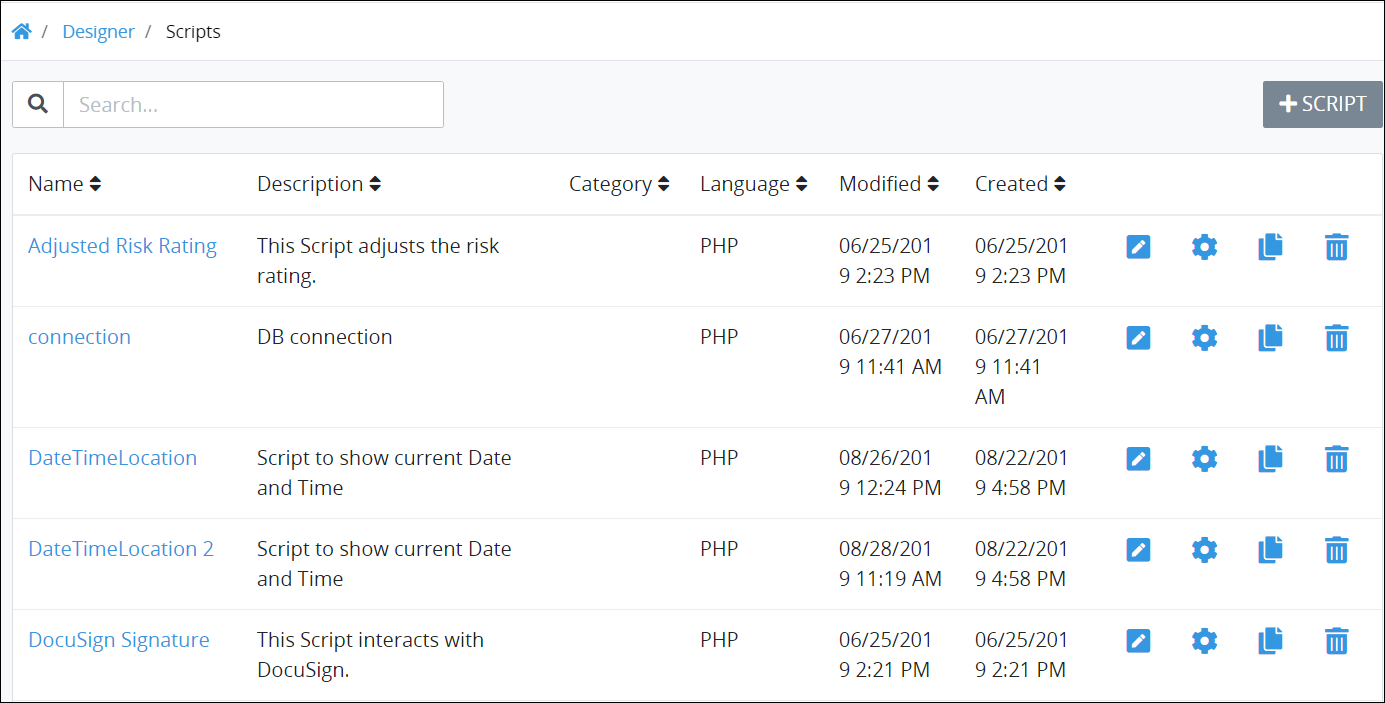
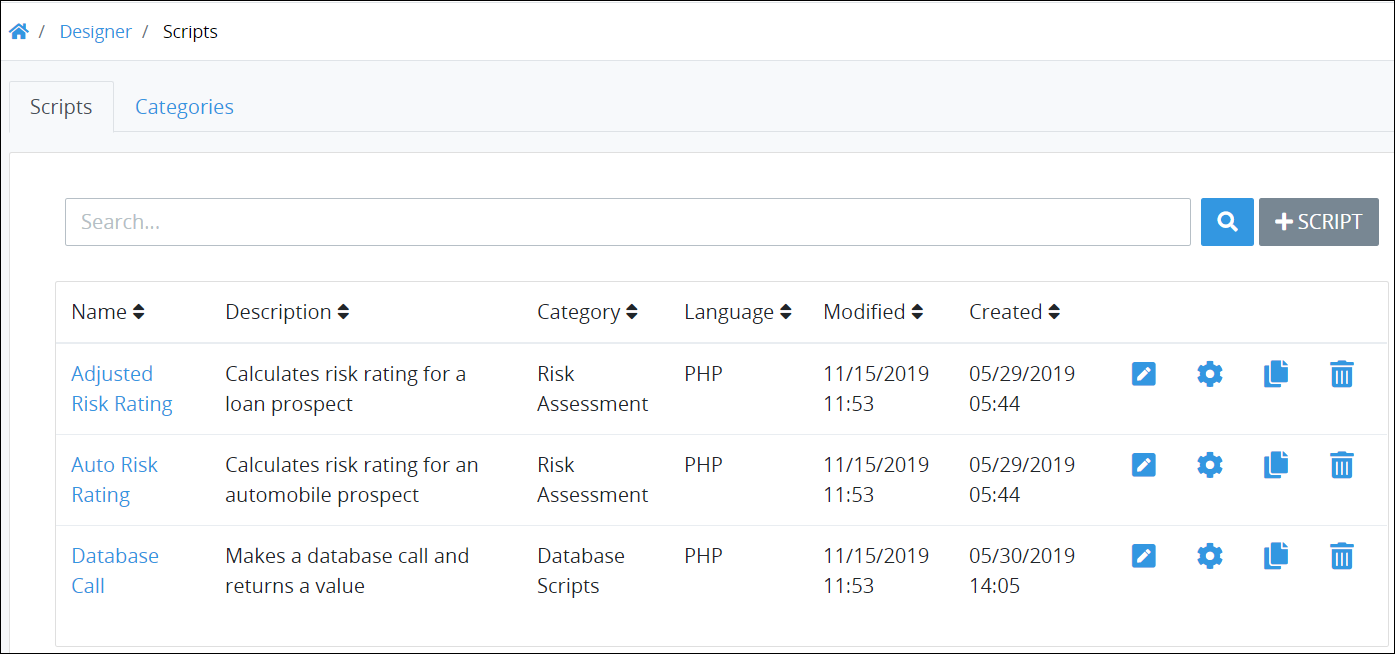
GitBook: [processmaker] 21 pages and 5 assets modified

diff --git a/designing-processes/viewing-processes/view-the-list-of-processes/manage-process-categories/view-process-categories.md b/designing-processes/viewing-processes/view-the-list-of-processes/manage-process-categories/view-process-categories.md
@@ -18,17 +18,17 @@ Follow these steps to view [Process Categories](what-is-a-process-category.md):
 2. Click the **Designer** option from the top menu. The **Processes** tab displays.
 3. Click the **Categories** tab. The Process Categories display.
 
-![&quot;Process Categories&quot; page displays categories by which to organize Processes](../../../../.gitbook/assets/process-categories-page-processes.png)
+![&quot;Categories&quot; tab in the &quot;Processes&quot; page displays Categories by which to organize Processes](../../../../.gitbook/assets/process-categories-page-processes%20%281%29.png)
 
 The **Categories** tab displays the following information in tabular format about Process Categories:
 
 * **Name:** The **Name** column displays the name of the Process Category.
 * **Status:** The **Status** column displays the status of the Process Category. Below is a description of each status:
   * **Active:** An active Process Category can have Processes assigned to it.
-  * **Inactive:** An inactive Process Category can no longer be selected when [assigning a Process to a Category](../create-a-process.md#create-a-new-process). Furthermore, Processes assigned to an inactive Category [no longer display to Requesters](../../../../using-processmaker/requests/make-a-request.md#start-a-request) even though such Processes may be active.
+  * **Inactive:** An inactive Process Category can no longer be selected when [assigning a Process to a Category](../create-a-process.md#create-a-new-process). Furthermore, Processes assigned to an inactive Category no longer display in the [**New Request** screen](../../../../using-processmaker/requests/make-a-request.md#start-a-request) even though such Processes may be active.
 * **Processes:** The **\# Processes** column displays how many Processes in your organization have been assigned to that Process Category.
-* **Modified:** The **Modified** column displays the date and time the Process Category was last modified. The time zone setting to display the time is according to the ProcessMaker Spark server unless your [user profile's](../../../../using-processmaker/profile-settings.md#change-your-profile-settings) **Time zone** setting is specified.
-* **Created:** The **Created** column displays the date and time the Process Category was created. The time zone setting to display the time is according to the ProcessMaker Spark server unless your [user profile's](../../../../using-processmaker/profile-settings.md#change-your-profile-settings) **Time zone** setting is specified.
+* **Modified:** The **Modified** column displays the date and time the Process Category was last modified. The time zone setting to display the time is according to the ProcessMaker server unless your [user profile's](../../../../using-processmaker/profile-settings.md#change-your-profile-settings) **Time zone** setting is specified.
+* **Created:** The **Created** column displays the date and time the Process Category was created. The time zone setting to display the time is according to the ProcessMaker server unless your [user profile's](../../../../using-processmaker/profile-settings.md#change-your-profile-settings) **Time zone** setting is specified.
 
 {% hint style="info" %}
 ### No Process Categories? <a id="no-processes"></a>

diff --git a/designing-processes/scripts/manage-scripts/manage-script-categories/view-script-categories.md b/designing-processes/scripts/manage-scripts/manage-script-categories/view-script-categories.md
@@ -4,3 +4,43 @@ description: View the Script Categories in your organization.
 
 # View Script Categories
 
+## View Script Categories
+
+{% hint style="info" %}
+Your ProcessMaker user account or group membership must have the "Categories: View Categories" permission to view the list of Process Categories unless your user account has the **Make this user a Super Admin** setting selected.
+
+See the Process [Categories](../../../../processmaker-administration/permission-descriptions-for-users-and-groups.md#categories) permissions or ask your ProcessMaker Administrator for assistance.
+{% endhint %}
+
+Follow these steps to view [Script Categories](what-is-a-script-category.md):
+
+1. [Log on](../../../../using-processmaker/log-in.md#log-in) to ProcessMaker.
+2. Click the **Designer** option from the top menu. The **Processes** page displays.
+3. Click the **Categories** tab. The Script Categories display.
+
+![&quot;Categories&quot; tab in the &quot;Scripts&quot; page displays Categories by which to organize ProcessMaker Scripts](../../../../.gitbook/assets/scripts-category-page-processes.png)
+
+The **Categories** tab displays the following information in tabular format about Script Categories:
+
+* **Name:** The **Name** column displays the name of the Script Category.
+* **Status:** The **Status** column displays the status of the Scripts Category. Below is a description of each status:
+  * **Active:** Active Script Categories can have ProcessMaker Scripts assigned to them.
+  * **Inactive:** Inactive Script Categories cannot have ProcessMaker Scripts assigned to them.
+* **Scripts:** The **\# Scripts** column displays how many ProcessMaker Scripts in your organization have been assigned to that Script Category.
+* **Modified:** The **Modified** column displays the date and time the Script Category was last modified. The time zone setting to display the time is according to the ProcessMaker server unless your [user profile's](../../../../using-processmaker/profile-settings.md#change-your-profile-settings) **Time zone** setting is specified.
+* **Created:** The **Created** column displays the date and time the Script Category was created. The time zone setting to display the time is according to the ProcessMaker server unless your [user profile's](../../../../using-processmaker/profile-settings.md#change-your-profile-settings) **Time zone** setting is specified.
+
+{% hint style="info" %}
+### No Script Categories? <a id="no-processes"></a>
+
+If no Script Categories exist, the following message displays: **No Results**.
+
+### Display Information the Way You Want It <a id="display-information-the-way-you-want-it"></a>
+
+[Control how tabular information displays](https://processmaker.gitbook.io/processmaker-4-community/-LPblkrcFWowWJ6HZdhC/~/drafts/-LWD5skTaOptuIWIWk76/primary/using-processmaker/control-how-requests-display-in-a-tab), including how to sort columns or how many items display per page.
+{% endhint %}
+
+## Related Topics
+
+
+

diff --git a/designing-processes/viewing-processes/view-the-list-of-processes/manage-process-categories/what-is-a-process-category.md b/designing-processes/viewing-processes/view-the-list-of-processes/manage-process-categories/what-is-a-process-category.md
@@ -8,7 +8,9 @@ description: >-
 
 ## Overview
 
-Use Process Categories to organize your Processes. Organizing your Processes into Categories makes it easier to search for a Process based on its assigned Category. Assign multiple Process Categories to a Process if necessary. For example, assign a Process named "Loan Request" to the "Banking" and "Loans" Process Categories.
+Use Process Categories to organize your [Processes](../../what-is-a-process.md). Organizing your Processes into Categories makes it easier to search for a Process based on its assigned Category. Assign multiple Process Categories to a Process if necessary. For example, assign a Process named "Loan Request" to the "Banking" and "Loans" Process Categories.
+
+![&quot;Categories&quot; tab on the &quot;Processes&quot; page displays all Process Categories in your organization](../../../../.gitbook/assets/process-categories-page-processes.png)
 
 Assigning your Process to Process Categories also makes it easier for [Request](../../../../using-processmaker/requests/what-is-a-request.md) participants to start a Request of your Process. Processes are organized by Process Categories in the **New Request** screen, which is where [new Requests are started](../../../../using-processmaker/requests/make-a-request.md#start-a-request). In the **New Request** screen, a Process displays in each Process Category to which it is assigned.
 
@@ -17,7 +19,7 @@ Assigning your Process to Process Categories also makes it easier for [Request](
 Process Categories can be in active or inactive status. Following is a description of each status:
 
 * **Active:** Active Process Categories can have Processes assigned to them.
-* **Inactive:** Inactive Process Categories cannot have Processes assigned to them. Furthermore, Processes assigned to an inactive Category no longer display in the **New Request** screen even though such Processes may be active.
+* **Inactive:** Inactive Process Categories cannot have Processes assigned to them. Furthermore, Processes assigned to an inactive Category no longer display in the [**New Request** screen](../../../../using-processmaker/requests/make-a-request.md#start-a-request) even though such Processes may be active.
 
 {% hint style="info" %}
 ProcessMaker has three Category types for different types of assets. Each Category type is distinct from the others and can only be used for its type of ProcessMaker asset. Following is a description of each Category type:

diff --git a/designing-processes/scripts/manage-scripts/view-all-scripts.md b/designing-processes/scripts/manage-scripts/view-all-scripts.md
@@ -18,11 +18,11 @@ Follow these steps to view all ProcessMaker Scripts in your organization:
 
 1. [Log on](../../../using-processmaker/log-in.md#log-in) to ProcessMaker.
 2. Click the **Designer** option from the top menu. The **Processes** page displays.
-3. Click the **Scripts** icon![](../../../.gitbook/assets/scripts-icon-processes.png) from the left sidebar. The **Scripts** page displays all ProcessMaker Scripts.
+3. Click the **Scripts** icon![](../../../.gitbook/assets/scripts-icon-processes.png) from the left sidebar. The **Scripts** tab displays all ProcessMaker Scripts in the **Scripts** page.
 
-![&quot;Scripts&quot; page displays all ProcessMaker Scripts in your organization](../../../.gitbook/assets/scripts-page-processes.png)
+![&quot;Scripts&quot; tab displays all ProcessMaker Scripts in your organization](../../../.gitbook/assets/scripts-page-processes.png)
 
-The **Scripts** page displays the following information in tabular format about ProcessMaker Scripts:
+The **Scripts** tab displays the following information in tabular format about ProcessMaker Scripts:
 
 * **Name:** The **Name** column displays the name of the ProcessMaker Script. Click the name to edit the ProcessMaker Script in [Scripts Editor](../scripts-editor.md).
 * **Description:** The **Description** column displays the description of the ProcessMaker Script. See [Edit Script Configuration](edit-script-configuration.md#edit-configuration-information-about-a-processmaker-script) for more information.
@@ -68,6 +68,8 @@ If no ProcessMaker Scripts exist, the following message displays: **No Results**
 ## Related Topics
 
 {% page-ref page="../what-is-a-script.md" %}
+
+{% page-ref page="manage-script-categories/" %}
 
 {% page-ref page="create-a-new-script.md" %}
 

diff --git a/designing-processes/scripts/manage-scripts/manage-script-categories/what-is-a-script-category.md b/designing-processes/scripts/manage-scripts/manage-script-categories/what-is-a-script-category.md
@@ -6,3 +6,26 @@ description: >-
 
 # What is a Script Category?
 
+## Overview
+
+Use Script Categories to organize your ProcessMaker [Scripts](../../what-is-a-script.md). Organizing your ProcessMaker Scripts into Categories makes it easier to search for a Script based on its assigned Category. Assign multiple Script Categories to a ProcessMaker Script if necessary. For example, assign a ProcessMaker Script named "Database Call" to the "Database Scripts" and "Data Management" Script Categories.
+
+![&quot;Categories&quot; tab on the &quot;Scripts&quot; page displays all Script Categories in your organization](../../../../.gitbook/assets/scripts-category-page-processes%20%281%29.png)
+
+Script Categories can be in active or inactive status. Following is a description of each status:
+
+* **Active:** Active Script Categories can have ProcessMaker Scripts assigned to them.
+* **Inactive:** Inactive Script Categories cannot have ProcessMaker Scripts assigned to them.
+
+{% hint style="info" %}
+ProcessMaker has three Category types for different types of assets. Each Category type is distinct from the others and can only be used for its type of ProcessMaker asset. Following is a description of each Category type:
+
+* [Process Categories](../../../viewing-processes/view-the-list-of-processes/manage-process-categories/what-is-a-process-category.md): Organize your ProcessMaker [Processes](../../../viewing-processes/what-is-a-process.md).
+* Script Categories: Organize your ProcessMaker [Scripts](../../what-is-a-script.md).
+* [Screen Categories](../../../design-forms/manage-forms/manage-screen-categories.md): Organize your ProcessMaker [Screens](../../../design-forms/what-is-a-form.md).
+{% endhint %}
+
+## Related Topics
+
+
+

diff --git a/designing-processes/viewing-processes/view-the-list-of-processes/view-your-processes.md b/designing-processes/viewing-processes/view-the-list-of-processes/view-your-processes.md
@@ -23,7 +23,7 @@ Click the **Archived Processes** icon![](../../../.gitbook/assets/archived-proce
 Follow these steps to view all active Processes in your organization:
 
 1. Ensure that you are [logged on](../../../using-processmaker/log-in.md#log-in) to ProcessMaker.
-2. Click the **Designer** option from the top menu. The **Processes** tab displays all active Processes.
+2. Click the **Designer** option from the top menu. The **Processes** tab displays all active Processes in the **Processes** page.
 
 {% hint style="info" %}
 Click the **Processes** icon![](../../../.gitbook/assets/processses-icon-processes.png)in the left side bar to view the **Processes** tab when you are viewing other Process-related pages.

diff --git a/designing-processes/viewing-processes/view-the-list-of-processes/manage-process-categories/delete-a-process-category.md b/designing-processes/viewing-processes/view-the-list-of-processes/manage-process-categories/delete-a-process-category.md
@@ -23,7 +23,7 @@ Furthermore, deleting a Process Category cannot be undone.
 
 A Process Category cannot be deleted until no Processes are assigned to it. If any Processes are assigned to the Process Category, its **Delete** icon![](../../../../.gitbook/assets/trash-icon-process-modeler-processes.png)does not display.
 
-Follow these steps to delete a Process Category:
+Follow these steps to delete a [Process Category](what-is-a-process-category.md):
 
 1. [View your Process Categories](view-process-categories.md#view-process-categories).
 2. Select the **Delete** icon![](../../../../.gitbook/assets/trash-icon-process-modeler-processes.png). A message displays to confirm deletion of the Process Category.  

diff --git a/designing-processes/viewing-processes/view-the-list-of-processes/manage-process-categories/edit-a-process-category.md b/designing-processes/viewing-processes/view-the-list-of-processes/manage-process-categories/edit-a-process-category.md
@@ -16,7 +16,7 @@ Your user account or group membership must have the following permissions to edi
 See the Process [Categories](../../../../processmaker-administration/permission-descriptions-for-users-and-groups.md#categories) permissions or ask your ProcessMaker Administrator for assistance.
 {% endhint %}
 
-Follow these steps to edit a Process Category:
+Follow these steps to edit a [Process Category](what-is-a-process-category.md):
 
 1. [View your Process Categories](view-process-categories.md#view-process-categories).
 2. Select the **Edit** icon![](../../../../.gitbook/assets/open-modeler-edit-icon-processes-page-processes.png). The **Edit Process Category** page displays.  

diff --git a/README.md b/README.md
@@ -4,7 +4,7 @@ description: Welcome to ProcessMaker user documentation. Let's get started.
 
 # ProcessMaker User Documentation
 
-ProcessMaker is licensed under the [GNU Affero General Public License v3.0](https://github.com/ProcessMaker/spark/blob/develop/LICENSE.txt).
+ProcessMaker Open Source Edition is licensed under the [GNU Affero General Public License v3.0](https://github.com/ProcessMaker/spark/blob/develop/LICENSE.txt). ProcessMaker Enterprise Edition is licensed under a separate enterprise agreement.
 
 Note that ProcessMaker user documentation may change without notice. Since ProcessMaker is in Beta, documentation as well as product features may change without notice.
 

diff --git a/designing-processes/viewing-processes/view-the-list-of-processes/manage-process-categories/create-a-new-process-category.md b/designing-processes/viewing-processes/view-the-list-of-processes/manage-process-categories/create-a-new-process-category.md
@@ -17,7 +17,7 @@ Your user account or group membership must have the following permissions to cre
 See the Process [Categories](../../../../processmaker-administration/permission-descriptions-for-users-and-groups.md#categories) permissions or ask your ProcessMaker Administrator for assistance.
 {% endhint %}
 
-Follow these steps to create a new Process Category:
+Follow these steps to create a new [Process Category](what-is-a-process-category.md):
 
 1. [View your Process Categories](view-process-categories.md#view-process-categories).
 2. Click the **+Category** button. The **Create Process Category** screen displays.  

diff --git a/designing-processes/scripts/what-is-a-script.md b/designing-processes/scripts/what-is-a-script.md
@@ -21,6 +21,8 @@ ProcessMaker supports Lua, PHP, and NodeJS programming languages in the open-sou
 
 {% page-ref page="what-is-a-script.md" %}
 
+{% page-ref page="manage-scripts/manage-script-categories/" %}
+
 {% page-ref page="manage-scripts/create-a-new-script.md" %}
 
 {% page-ref page="manage-scripts/search-for-a-script.md" %}

diff --git a/designing-processes/scripts/scripts-editor.md b/designing-processes/scripts/scripts-editor.md
@@ -247,6 +247,8 @@ Click the **Save** icon![](../../.gitbook/assets/save-icon-processes.png)from Sc
 
 {% page-ref page="what-is-a-script.md" %}
 
+{% page-ref page="manage-scripts/manage-script-categories/" %}
+
 {% page-ref page="manage-scripts/view-all-scripts.md" %}
 
 {% page-ref page="manage-scripts/create-a-new-script.md" %}
